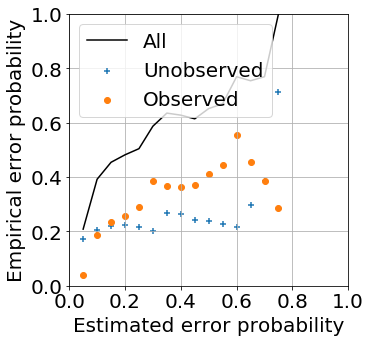
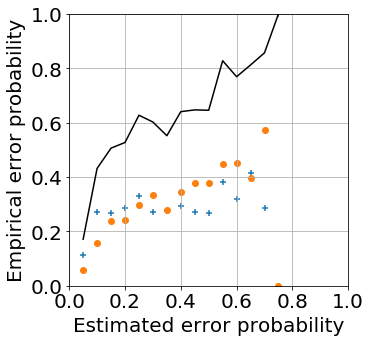
new figures

diff --git a/python/fmnist/ssl_mar.py b/python/fmnist/ssl_mar.py
@@ -36,8 +36,8 @@ x_train = data.vectorize_and_normalize(x_train, original_dim)
 x_test = data.vectorize_and_normalize(x_test, original_dim)
 
 # Load model
-encoder, decoder = model.my_model_train(x_train, x_test, original_dim)
-#encoder, decoder = model.my_model(original_dim)
+#encoder, decoder = model.my_model_train(x_train, x_test, original_dim)
+encoder, decoder = model.my_model(original_dim)
 batch_size = 128
 
 # All train data
@@ -107,8 +107,8 @@ for i in range(10):
 #my_plt.plot_marginallrt(z_unlabeled, lrt_y)    
 
 # Sampling from the posterior
-#y_unlabeled_hat = data.sampling_posterior_1(ll_y)
-y_unlabeled_hat = data.sampling_posterior_2(ll_y, lrt_y)
+y_unlabeled_hat = data.sampling_posterior_1(ll_y)
+#y_unlabeled_hat = data.sampling_posterior_2(ll_y, lrt_y)
 #y_unlabeled_hat, _ = data.mle(ll_y)
 #my_plt.plot_samples(z_unlabeled, y_unlabeled_hat, y_unlabeled)
 
@@ -155,10 +155,10 @@ y_test_mle, pe_test_mle = data.mle(ll_y_test)
 #my_plt.plot_test(z_test, y_test_mle, y_test, pe_test_mle)
 
 #my_plt.plot_test_mar(z_test, y_test_mle, y_test, pe_test_mle, leftout_classes)
-my_plt.plot_test_mar_2(z_test, y_test_mle, y_test, pe_test_mle, leftout_classes)
+#my_plt.plot_test_mar_2(z_test, y_test_mle, y_test, pe_test_mle, leftout_classes)
 
 #my_plt.plot_test_mcar_soft(z_test, y_test_mle, y_test, pe_test_mle, leftout_classes)
-#my_plt.plot_test_mcar_soft_2(z_test, y_test_mle, y_test, pe_test_mle, leftout_classes)
+my_plt.plot_test_mcar_soft_2(z_test, y_test_mle, y_test, pe_test_mle, leftout_classes)
 
 #my_plt.plot_test_mcar(z_test, y_test_mle, y_test, pe_test_mle, leftout_classes)
 #my_plt.plot_test_mcar_2(z_test, y_test_mle, y_test, pe_test_mle, leftout_classes)
@@ -167,83 +167,83 @@ my_plt.plot_test_mar_2(z_test, y_test_mle, y_test, pe_test_mle, leftout_classes)
 
 #my_plt.plot_topn_pe_new(x_test, z_test, y_test_mle, y_test, pe_test_mle, decoder, 10)
 
-heatmap = np.zeros((10, 10))
-plt.figure(figsize=(5, 5))
-#    pe_sorted = pe_test[np.flip(np.argsort(pe_test))]
-    
-for j in range(10):
-    this_y_test_mle = y_test_mle[y_test == j]
-    this_pe_test_mle = pe_test_mle[y_test == j]
-    this_z_test = z_test[y_test == j, :]
-    this_x_test = x_test[y_test == j, :]
-    
-    this_y_test_mle_sorted = this_y_test_mle[np.argsort(this_pe_test_mle)]
-    this_pe_test_mle_sorted = this_pe_test_mle[np.argsort(this_pe_test_mle)]
-    this_z_test_sorted = this_z_test[np.argsort(this_pe_test_mle)]
-    this_x_test_sorted = this_x_test[np.argsort(this_pe_test_mle)]
-    
-    shift = 20
-    
-    step = np.floor((this_z_test.shape[0])/10).astype(int)
-    
-    heatmap[j, :] = this_pe_test_mle_sorted[shift:step*10+shift:step]
-    for i in range(10):
-        
-        
-        # display original
-        x_decoded = decoder.predict(this_z_test_sorted[[i+step*i+shift], :])
-#        x_decoded = x_test[np.nonzero(pe_test == pe_sorted[i])[0], :]
-        digit = x_decoded[0].reshape(28, 28)
-#        digit = this_x_test_sorted[[i+step*i+shift], :].reshape(28, 28)
-        ax = plt.subplot(10, 10, i+j*10+1)
-#        plt.title(str(j)+', '\
-#                  +str(this_y_test_mle_sorted[i+step*i]) + ', '\
-#                  +str(np.around(this_pe_test_mle_sorted[i+step*i], decimals=2)))
-        
-        plt.imshow(digit)
-        if this_y_test_mle_sorted[i+step*i+shift] == j:
-            plt.gray()
-        else:
-            plt.hot()
-        ax.get_xaxis().set_visible(False)
-        ax.get_yaxis().set_visible(False)
-plt.savefig("examples_mcar_soft.png")
-
-
-#figure = np.zeros((28 * 10, 28 * 10))
+#heatmap = np.zeros((10, 10))
+#plt.figure(figsize=(5, 5))
+##    pe_sorted = pe_test[np.flip(np.argsort(pe_test))]
+#    
 #for j in range(10):
 #    this_y_test_mle = y_test_mle[y_test == j]
 #    this_pe_test_mle = pe_test_mle[y_test == j]
 #    this_z_test = z_test[y_test == j, :]
+#    this_x_test = x_test[y_test == j, :]
 #    
 #    this_y_test_mle_sorted = this_y_test_mle[np.argsort(this_pe_test_mle)]
 #    this_pe_test_mle_sorted = this_pe_test_mle[np.argsort(this_pe_test_mle)]
 #    this_z_test_sorted = this_z_test[np.argsort(this_pe_test_mle)]
+#    this_x_test_sorted = this_x_test[np.argsort(this_pe_test_mle)]
 #    
-#    shift = 20
+#    shift = 10
 #    
 #    step = np.floor((this_z_test.shape[0])/10).astype(int)
+#    
+#    heatmap[j, :] = this_pe_test_mle_sorted[shift:step*10+shift:step]
 #    for i in range(10):
+#        
+#        
 #        # display original
-#        x_decoded = decoder.predict(this_z_test[[i+step*i+shift], :])
+#        x_decoded = decoder.predict(this_z_test_sorted[[i+step*i+shift], :])
 ##        x_decoded = x_test[np.nonzero(pe_test == pe_sorted[i])[0], :]
 #        digit = x_decoded[0].reshape(28, 28)
+##        digit = this_x_test_sorted[[i+step*i+shift], :].reshape(28, 28)
+#        ax = plt.subplot(10, 10, i+j*10+1)
+##        plt.title(str(j)+', '\
+##                  +str(this_y_test_mle_sorted[i+step*i]) + ', '\
+##                  +str(np.around(this_pe_test_mle_sorted[i+step*i], decimals=2)))
 #        
-#        figure[j * 28: (j + 1) * 28,
-#               i * 28: (i + 1) * 28] = digit
-#               
-#plt.figure(figsize=(10, 10))
-#plt.imshow(figure, cmap='Greys_r')
-        
-    
-        
-plt.figure(figsize=(6, 5))      
-plt.imshow(heatmap)
-plt.axis('off')
-plt.clim(0,0.9)
-plt.jet()
-plt.colorbar()
-plt.savefig("heatmap_pe_mcar_soft.png")
+#        plt.imshow(digit)
+#        if this_y_test_mle_sorted[i+step*i+shift] == j:
+#            plt.gray()
+#        else:
+#            plt.hot()
+#        ax.get_xaxis().set_visible(False)
+#        ax.get_yaxis().set_visible(False)
+#plt.savefig("examples_mcar_soft.png")
+#
+#
+##figure = np.zeros((28 * 10, 28 * 10))
+##for j in range(10):
+##    this_y_test_mle = y_test_mle[y_test == j]
+##    this_pe_test_mle = pe_test_mle[y_test == j]
+##    this_z_test = z_test[y_test == j, :]
+##    
+##    this_y_test_mle_sorted = this_y_test_mle[np.argsort(this_pe_test_mle)]
+##    this_pe_test_mle_sorted = this_pe_test_mle[np.argsort(this_pe_test_mle)]
+##    this_z_test_sorted = this_z_test[np.argsort(this_pe_test_mle)]
+##    
+##    shift = 20
+##    
+##    step = np.floor((this_z_test.shape[0])/10).astype(int)
+##    for i in range(10):
+##        # display original
+##        x_decoded = decoder.predict(this_z_test[[i+step*i+shift], :])
+###        x_decoded = x_test[np.nonzero(pe_test == pe_sorted[i])[0], :]
+##        digit = x_decoded[0].reshape(28, 28)
+##        
+##        figure[j * 28: (j + 1) * 28,
+##               i * 28: (i + 1) * 28] = digit
+##               
+##plt.figure(figsize=(10, 10))
+##plt.imshow(figure, cmap='Greys_r')
+#        
+#    
+#        
+#plt.figure(figsize=(6, 5))      
+#plt.imshow(heatmap)
+#plt.axis('off')
+#plt.clim(0,0.9)
+#plt.jet()
+#plt.colorbar()
+#plt.savefig("heatmap_pe_mcar_soft.png")
 
 
 

diff --git a/python/fmnist/plot.py b/python/fmnist/plot.py
@@ -295,7 +295,7 @@ def plot_test_mar_2(z_test, y_test_hat, y_test, pe_test, leftout_classes):
     plt.scatter(bins[1:], ratio_1, marker= '+', label = 'Unobserved')
     plt.scatter(bins[1:], ratio_2, marker= 'o', label = 'Observed')
     plt.plot(bins[1:], ratio, 'k-', label = 'All')
-    plt.legend(loc='upper left')
+#    plt.legend(loc='upper left')
 #    plt.legend(loc=(0,1.04), ncol = 3)
 #    plt.legend(bbox_to_anchor=(1.04,1), borderaxespad=0)
     plt.grid()
@@ -331,7 +331,7 @@ def plot_test_mcar_soft_2(z_test, y_test_hat, y_test, pe_test, leftout_classes):
     plt.scatter(bins[1:], ratio_1, marker= '+', label = 'Unobserved')
     plt.scatter(bins[1:], ratio_2, marker= 'o', label = 'Observed')
     plt.plot(bins[1:], ratio, 'k-', label = 'All')
-    plt.legend(loc='upper left')
+#    plt.legend(loc='upper left')
 #    plt.legend(loc=(0,1.04), ncol = 3)
 #    plt.legend(bbox_to_anchor=(1.04,1), borderaxespad=0)
     plt.grid()
@@ -367,7 +367,7 @@ def plot_test_mcar_2(z_test, y_test_hat, y_test, pe_test, leftout_classes):
     plt.scatter(bins[1:], ratio_1, marker= '+', label = 'Unobserved')
     plt.scatter(bins[1:], ratio_2, marker= 'o', label = 'Observed')
     plt.plot(bins[1:], ratio, 'k-', label = 'All')
-    plt.legend(loc='upper left')
+#    plt.legend(loc='upper left')
 #    plt.legend(loc=(0,1.04), ncol = 3)
 #    plt.legend(bbox_to_anchor=(1.04,1), borderaxespad=0)
     plt.grid()

diff --git a/python/fmnist/model.py b/python/fmnist/model.py
@@ -34,7 +34,7 @@ def my_model(original_dim):
     # network parameters
     input_shape = (original_dim, )
     intermediate_dim = 512
-    latent_dim = 3
+    latent_dim = 5
     
     # VAE model = encoder + decoder
     # build encoder model
@@ -98,7 +98,7 @@ def my_model(original_dim):
     vae.compile(optimizer='adam')
 #    vae.summary()
 #    plot_model(vae, to_file='vae_mlp.png', show_shapes=True)
-    vae.load_weights('vae_mlp_fmnist_d3.h5')
+    vae.load_weights('vae_mlp_fmnist_d5.h5')
     
     return encoder, decoder
 
